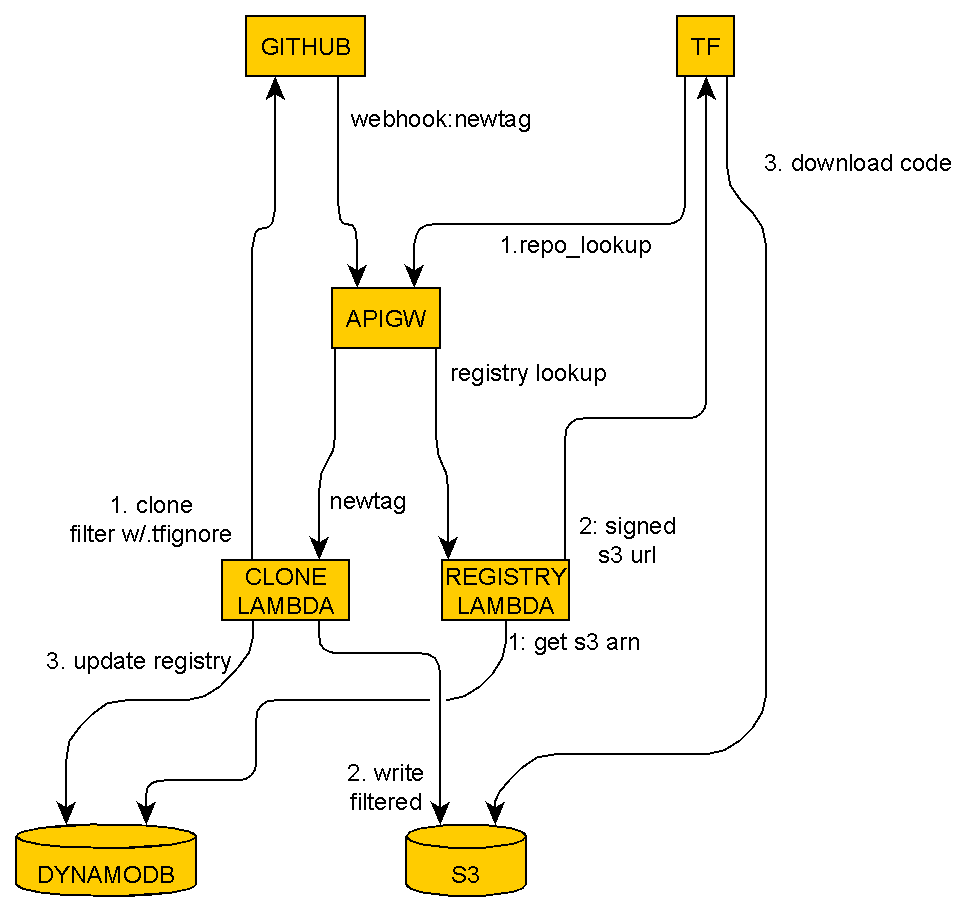
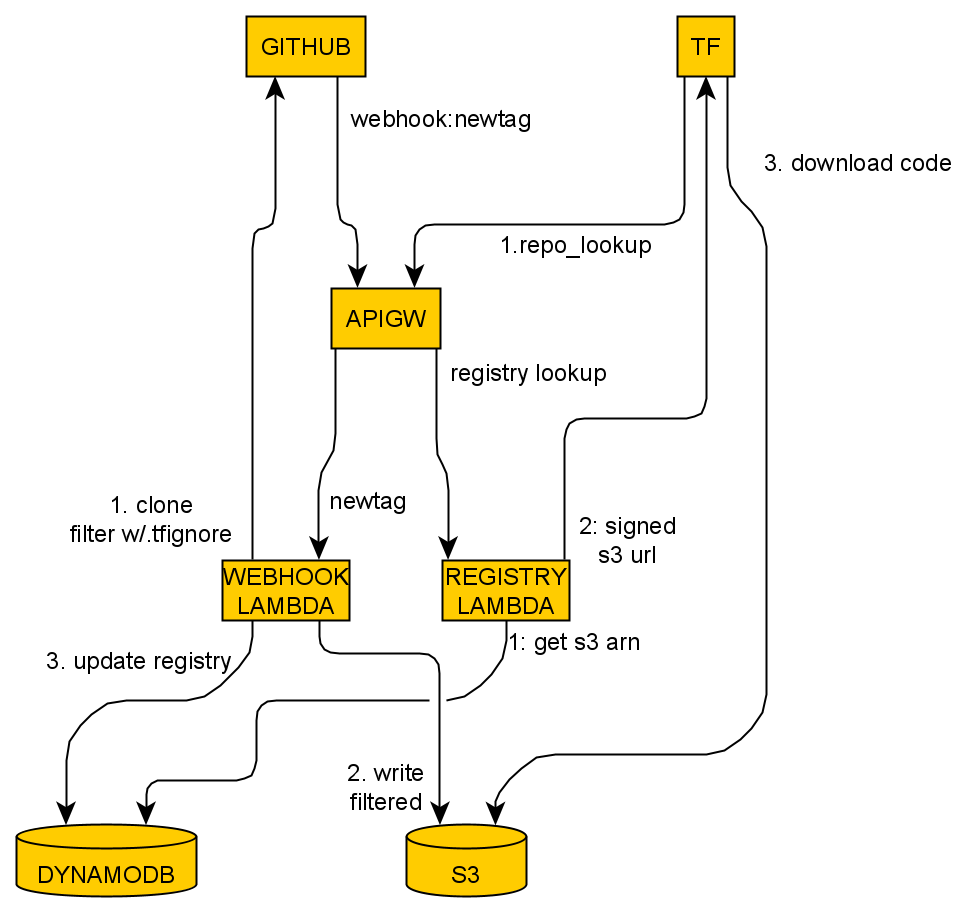
Added skeleton webhook lambda

diff --git a/lambda/webhook/index.js b/lambda/webhook/index.js
@@ -1,0 +1,22 @@
+const AWS = require('aws-sdk');
+
+const dynamo = new AWS.DynamoDB.DocumentClient();
+const s3 = new AWS.S3();
+
+/**
+ * Terraform registry implementation.
+ * 
+ * @param {*} event 
+ * @param {*} context 
+ */
+exports.handler = async (event, context) => {
+        console.log('Received event:', JSON.stringify(event));
+
+    let body = JSON.stringify(event)
+    let statusCode = '200';
+    const headers = {
+        'Content-Type': 'application/json',
+    };
+
+    return { statusCode, body, headers };
+};

diff --git a/docs/README.md b/docs/README.md
@@ -9,7 +9,7 @@ This document gives a short description of the moving parts in the project.
 * GitHub: this is where the original source code for the hosted Terraform modules is stored
 * Terraform Files (TF): These are Terraform modules that referenced hosted modules. They might be hosted themselves.
 * API Gateway (APIGW): The Gateway exposes REST interfaces to GitHub, Terraform, and developers backed by lambdas.
-  * Clone Lambda: Receives GitHub webhooks about releases, pulls the code to S3, and updates the registry in DynamoDB
+  * Webhook Lambda: Receives GitHub webhooks about releases, pulls the code to S3, and updates the registry in DynamoDB
   * Registry Lambda: Receives lookups from Terraform during initialization, and returns version and location information about hosted modules
 * DynamoDB: A registry of hosted modules with version and location info
 * S3: The actual repository, where filtered and zipped and modules are stored
@@ -20,15 +20,13 @@ The registry has two use cases: store a new release, and return module versions,
 
 ### Store a new release
 
-To store releases in the registry, the developer creates a webhook that fires either on new tags, new releases, or both. The webhook should target the Clone lambda API gateway endpoint, using a shared secret for authentication.
+To store releases in the registry, the developer creates a webhook that fires either on new tags, new releases, or both. The webhook should target the Webhook lambda API gateway endpoint, using a shared secret for authentication.
 
-When the Clone lambda is triggered, it checks out the new code from GitHub, authenticating with a personal access token. It then scans the code for ".tfignore" files. These work similarly to ".gitignore", in that they can be stored anywhere in the code tree, and affect everything in the folder or deeper.
+When the Webhook lambda is triggered, it checks out the new code from GitHub, authenticating with a personal access token. It then scans the code for ".tfignore" files. These work similarly to ".gitignore", in that they can be stored anywhere in the code tree, and affect everything in the folder or deeper.
 
 All files that match the ignore list are deleted. Additionally, all ".git*" files- and directories is removed. Finally the ".tfignore" files are removed. The resulting tree is zipped and uploaded to S3. 
 
-After uploading the code, the Lambda writes the new version, and the S3 ARN to a registry in DynamoDB. Along with the ARN, we also store an MD5 digest of the S3 Version Id. This is used later to resolve accidental versions of the same tag.
-
-The S3 bucket has versioning enabled, meaning that if the tag for a release is reused by accident, the old version of the release is kept, both in S3, but also in the Dynamo registry. Asking later for an object with multiple S3 versions will return the newest one.
+After uploading the code, the Lambda writes the new version a registry in DynamoDB. 
 
 Finally, after updating the registry, the Lambda shuts down and discards its temporary checkout of the code.
 
@@ -38,7 +36,7 @@ The API Gateway exposes a number of endpoints that act as a [Terraform private r
 
 ```terraform
 module "sg" {
-    source = "private-repo.com/myorg/security-module"
+    source = "registry.io/swissarmyronin/example/aws"
     version = "~> 1.0"
 }
 ```
@@ -48,14 +46,3 @@ In the example above, Terraform would expect to get a download URL for the newes
 The query happens when `terraform init` tries to resolve the module definition. API Gateway hands the query off to the Registry Lambda, which queries DynamoDB for any matching versions and returns a signed S3 URL that is good for 4 hours, if a version is found.
 
 Terraform then downloads the module from the URL, and caches it locally in `.terraform/modules`.
-
-#### Edge cases
-
[1 lines of base64/hex data omitted]
-
-```terraform
-module "sg" {
-    source = "private-repo.com/myorg/security-module"
-    version = "1.0-a00a0c7693d40b3ab96184f3f88fb29d"
-}
-```

diff --git a/README.md b/README.md
@@ -14,7 +14,7 @@ Example: Sourcing the latest patch of version 1.0 for the "security-module".
 
 ```terraform
 module "sg" {
-    source = "git@github.com:myorg/security-module?ref=v1.0.2"
+    source = "git@github.com:swissarmyronin/example?ref=v1.0.2"
 	...
 }
 ```
@@ -23,7 +23,7 @@ If the module had been in a Terraform registry, it would be possible to specify 
 
 ```terraform
 module "sg" {
-    source = "private-repo.com/myorg/security-module"
+    source = "registry.io/swissarmyronin/example/aws"
     version = "~> 1.0"
     ...
 }
